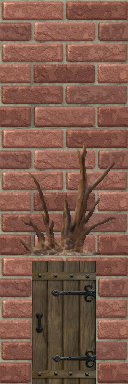
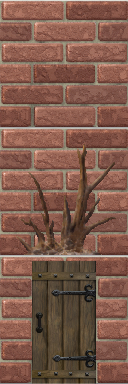
transparent

Changed region(s): [[0.0, 0.6562, 1.0, 0.6875], [0.0, 0.3125, 1.0, 0.3438]]

diff --git a/game.js b/game.js
@@ -13,7 +13,7 @@ function initScreen() {
         strip.style.height = "0px";
         strip.style.overflow = "hidden";
 
-        strip.style.backgroundColor = "lightgrey";
+        strip.style.backgroundColor = "transparent";
 
         var img = new Image();
         img.src = ("walls.png");
@@ -35,7 +35,7 @@ var screenWidth = 1024;
 var screenHeight = 768;
 var screenStrips = [];
 var numoftex = 3;
-var stripWidth = 3;
+var stripWidth = 4;
 var fov = 80 * Math.PI / 180;
 var numRays = Math.ceil(screenWidth / stripWidth);
 var viewDist = (screenWidth / 2) / Math.tan((fov / 2));
